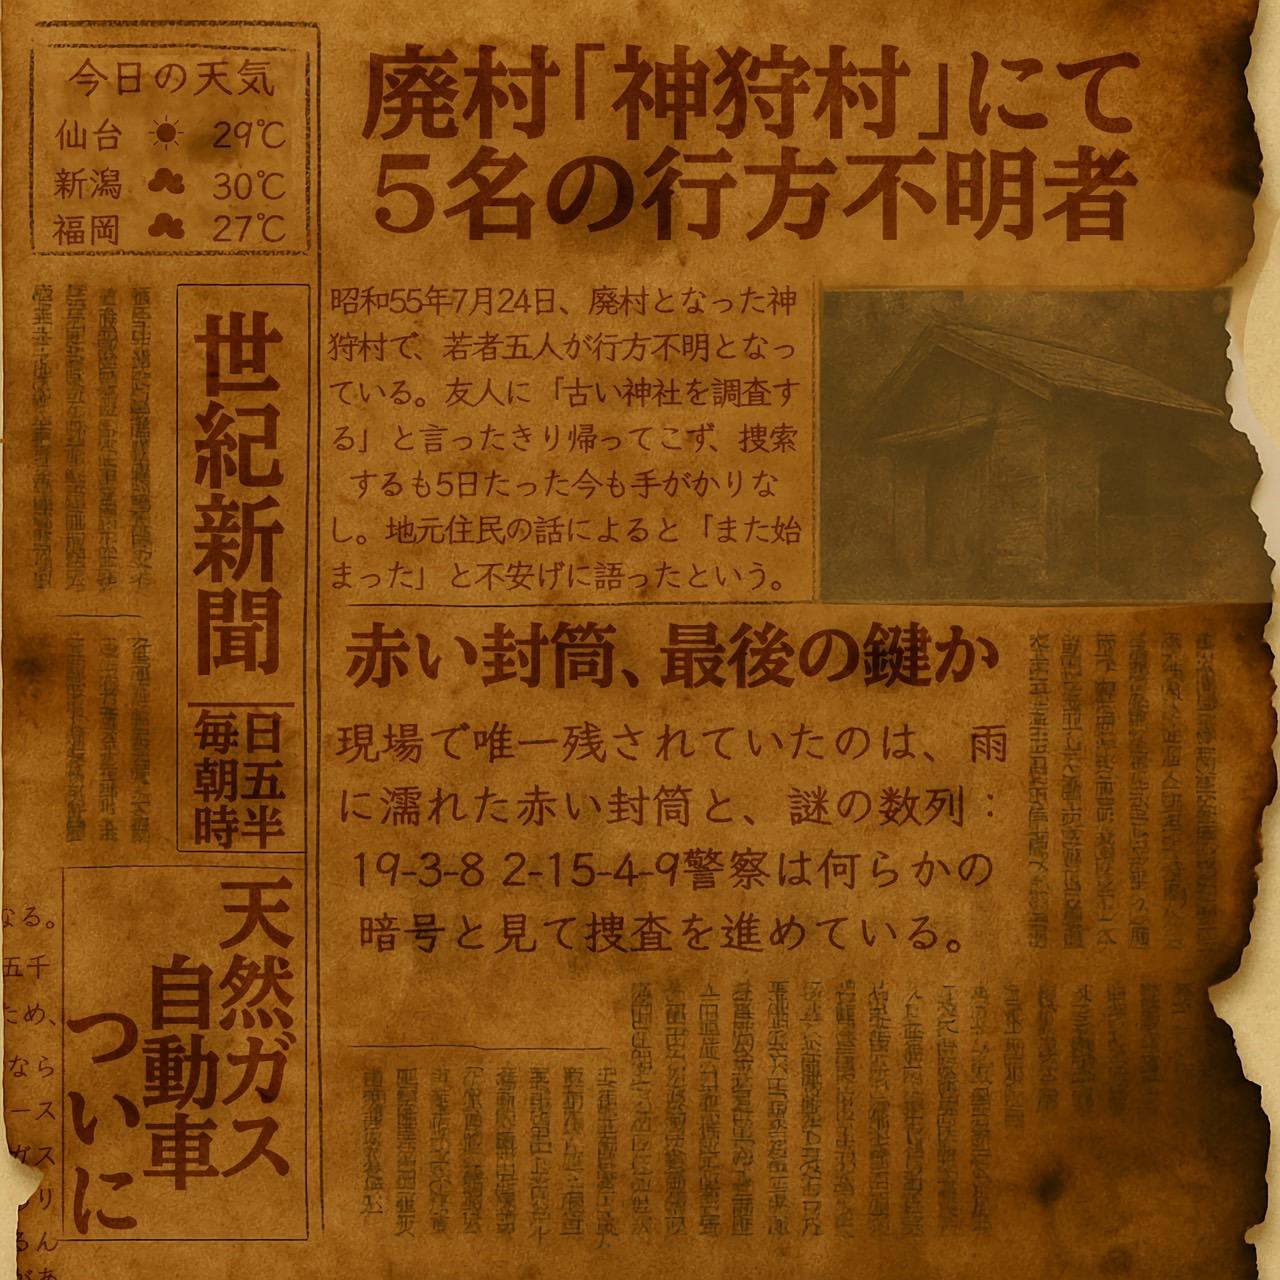
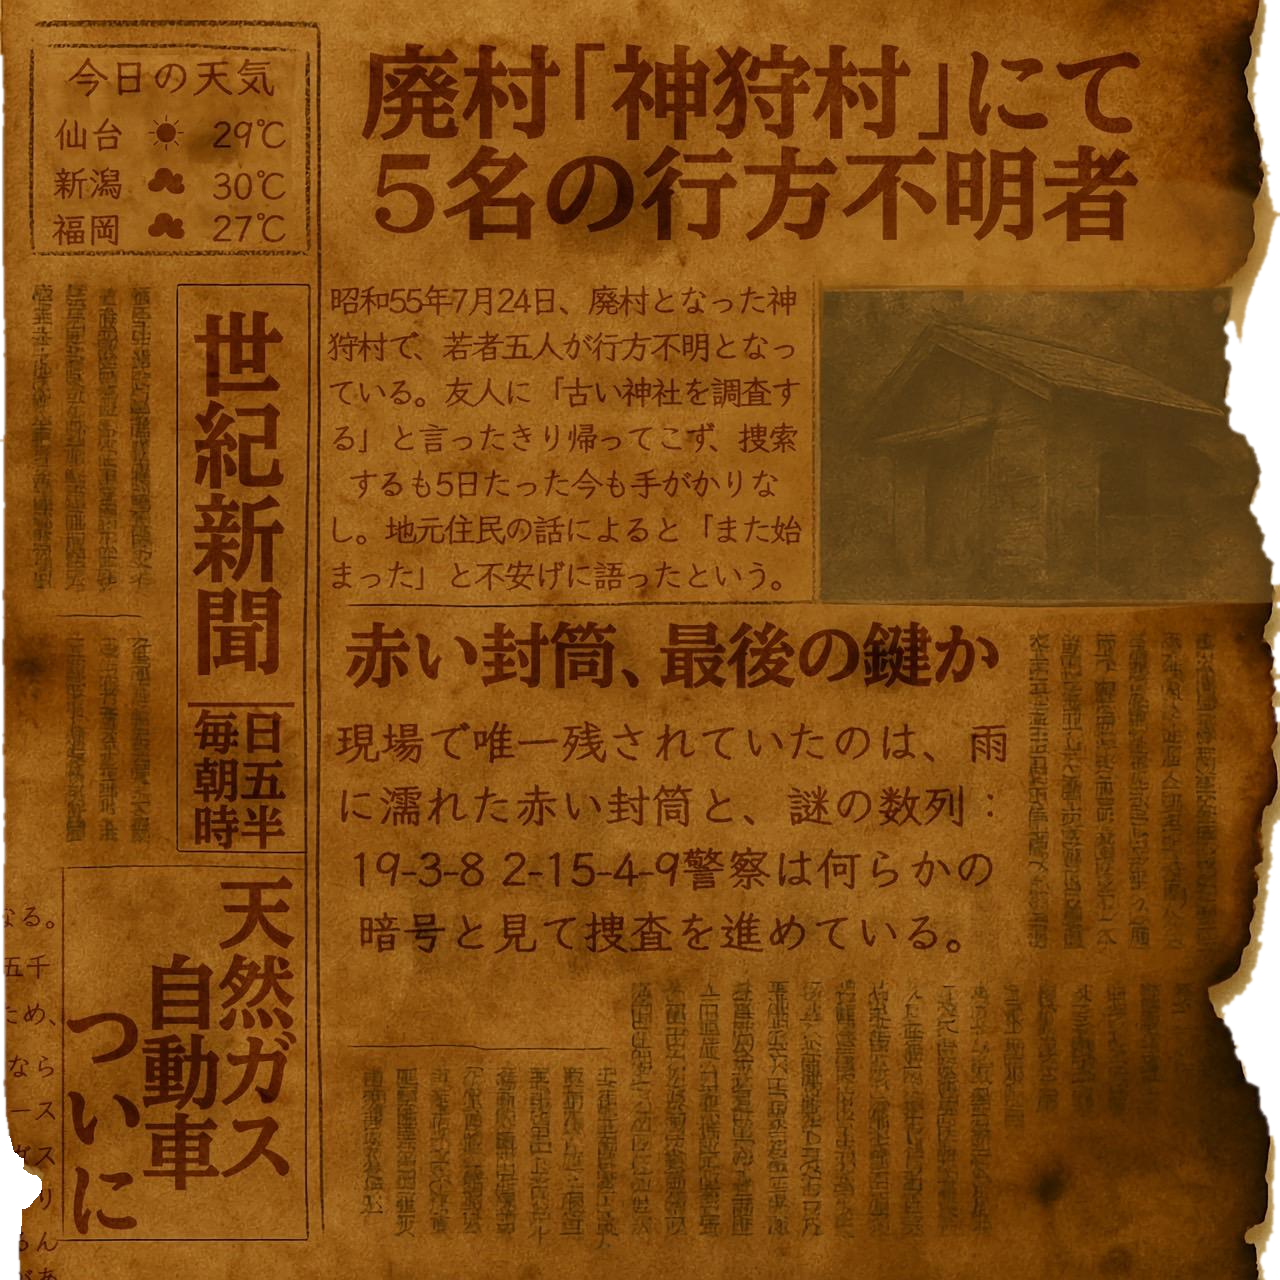
新聞を切り抜き（アルファ）・掲示板の紙を風でゆらす（細分割の板）
Claude-Session: https://claude.ai/code/session_01KVNf8hmEAkWKYefnRGnLeu

diff --git a/games/koushu-denwa/blender/make_poster_mesh.py b/games/koushu-denwa/blender/make_poster_mesh.py
@@ -10,7 +10,7 @@ except NameError:
 OUT = os.path.normpath(os.path.join(HERE, '..', 'assets', 'unreal'))
 os.makedirs(OUT, exist_ok=True)
 bpy.ops.wm.read_factory_settings(use_empty=True)
-bpy.ops.mesh.primitive_plane_add(size=1)
+bpy.ops.mesh.primitive_grid_add(x_subdivisions=12, y_subdivisions=16, size=1)       # 紙がゆれて曲がるように、細かく分けておく
 o = bpy.context.active_object
 o.scale = (0.5, 0.7, 1.0)
 o.rotation_euler = (math.radians(90), 0, 0)

diff --git a/games/koushu-denwa/STATUS.md b/games/koushu-denwa/STATUS.md
@@ -91,6 +91,8 @@ GeForce RTX 2070 SUPER／Core i7-10700K／メモリ32GB／SSD 1TB＋HDD 2TB
 
 ## 進行中・次にやること
 
+- **新聞の切り抜き＋紙のゆれ（未確認）**：新聞の画像の、右のやぶれの外側と左下の色のちがう部分を透明に切り抜いた（`paper_kamigari.png` はアルファつき。材質は `BLEND_MASKED`）。掲示板の紙は、風でひらひらゆれる（材質の頂点を動かす。上は画びょうでとまり、下ほど大きくゆれる。`PAPER_WIND_AMP`＝大きさcm・`PAPER_WIND_SPEED`＝速さ）。ゆれるように `Poster.fbx` を細かく分けた板（12×16）に作り直した
+
 - **掲示板＋手に取れる新聞（未確認）**：`setup_game_fp.py` が、入口の前の道ばたに木の掲示板を立てる（`BOARD_DIST` / `BOARD_SIDE` / `BOARD_TURN` で位置を調整）。貼るもの：ひかるの画像3枚（えげつない1997／撮りまくルンです／神狩村の新聞）。新聞に近づいて見ると「[E] 新聞を手に取る」→目の前に大きく出て、もう一度 E でとじる（`READ_SIZE`・`READ_DIST`）。木は色・法線（凹凸）・粗さの3画像で作った材質 `M_KDWood`（つまみ：Tiling / NormalStrength / RoughMul / Brightness）。画像は `assets/tex/game/board_*.png`・`paper_kamigari.png`・`wood_*.png`。次：本物の謎（新聞の暗号 19-3-8 2-15-4-9 の使い道を決める）、金庫・本・10円
 
 - **消えたときも蛍光灯の棒が光って暗くならない件（未確認）**：消えたとき光る棒そのもの（KD_Tube）を隠すようにした。静かな間の「7秒に一度のゆれ」を `IDLE_DIP`（初期値1.0＝ゆれない）で調整できる。ひかるの設定：TubeLight_L=0、R=8
